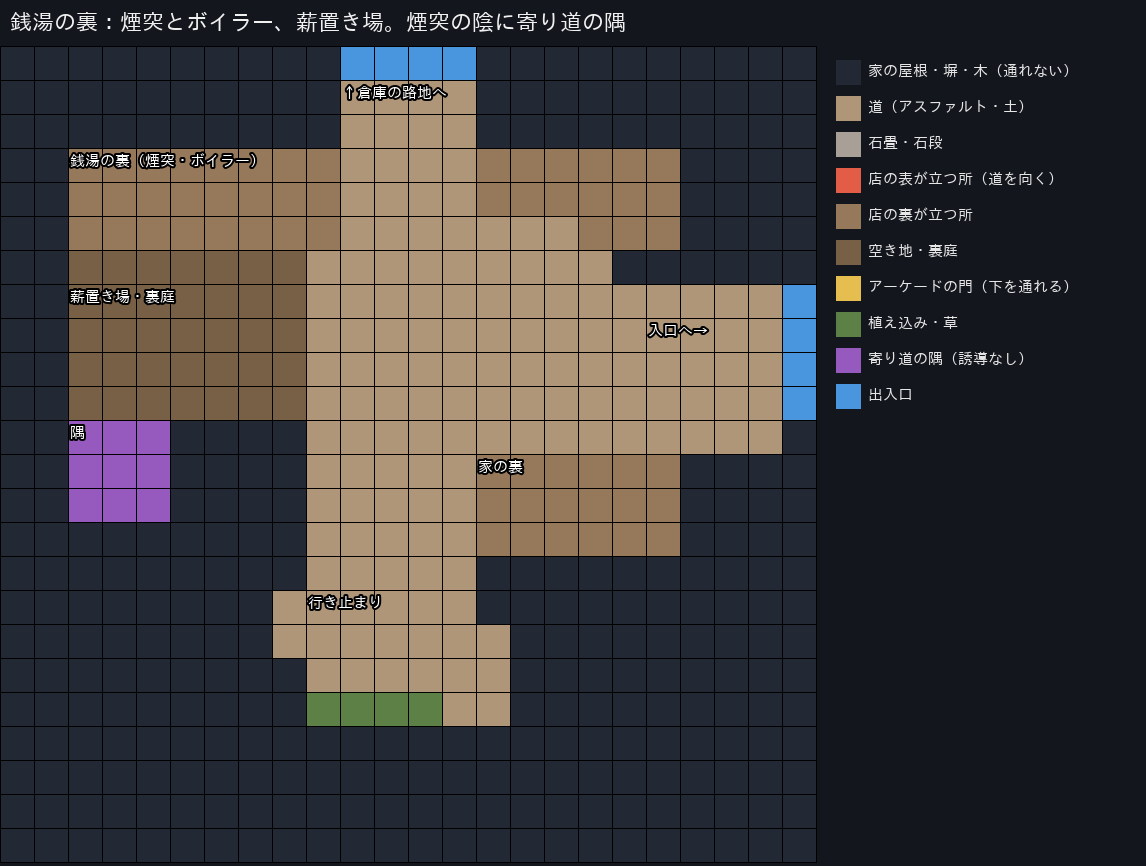
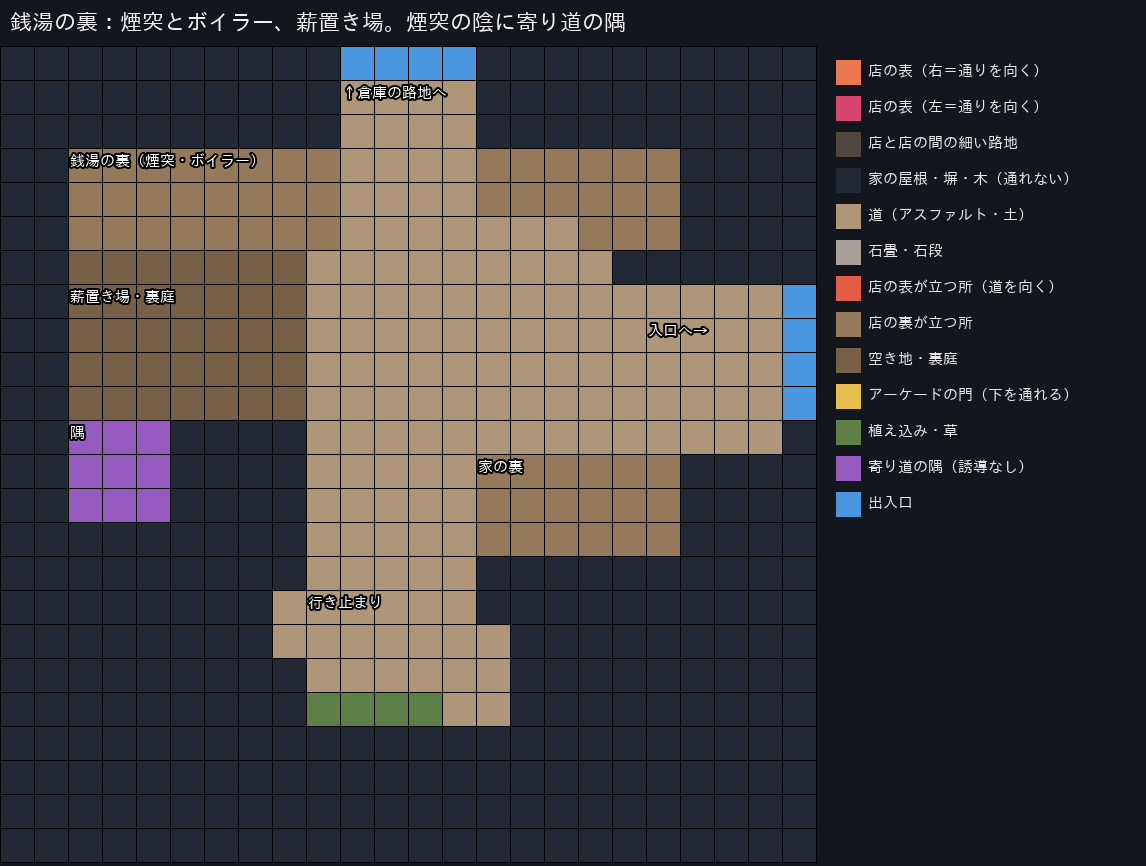
段階306a：入口と中ほどを縦の商店街に描き直した下書き（案）
Claude-Session: https://claude.ai/code/session_0138z9G7k6ksKdyrMYEXSS2D

Changed region(s): [[0.733, 0.0624, 0.9468, 0.5924]]

diff --git a/scripts/a12_sketch.py b/scripts/a12_sketch.py
@@ -5,8 +5,8 @@ from PIL import Image, ImageDraw, ImageFont
 T = 34
 F = ImageFont.truetype('/usr/share/fonts/opentype/ipafont-gothic/ipag.ttf', 15)
 FB = ImageFont.truetype('/usr/share/fonts/opentype/ipafont-gothic/ipag.ttf', 22)
-C = {'#': (34, 40, 52), '.': (176, 150, 120), 's': (168, 160, 150), 'F': (226, 92, 70), 'B': (150, 120, 90), 'x': (74, 150, 222), 'y': (120, 96, 70), 'h': (150, 90, 190), 'g': (230, 190, 80), 'k': (92, 128, 70)}
-LEGEND = [('#', '家の屋根・塀・木（通れない）'), ('.', '道（アスファルト・土）'), ('s', '石畳・石段'), ('F', '店の表が立つ所（道を向く）'), ('B', '店の裏が立つ所'), ('y', '空き地・裏庭'), ('g', 'アーケードの門（下を通れる）'), ('k', '植え込み・草'), ('h', '寄り道の隅（誘導なし）'), ('x', '出入口')]
+C = {'L': (236, 120, 80), 'R': (214, 70, 110), 'a': (80, 70, 60), '#': (34, 40, 52), '.': (176, 150, 120), 's': (168, 160, 150), 'F': (226, 92, 70), 'B': (150, 120, 90), 'x': (74, 150, 222), 'y': (120, 96, 70), 'h': (150, 90, 190), 'g': (230, 190, 80), 'k': (92, 128, 70)}
+LEGEND = [('L', '店の表（右＝通りを向く）'), ('R', '店の表（左＝通りを向く）'), ('a', '店と店の間の細い路地'), ('#', '家の屋根・塀・木（通れない）'), ('.', '道（アスファルト・土）'), ('s', '石畳・石段'), ('F', '店の表が立つ所（道を向く）'), ('B', '店の裏が立つ所'), ('y', '空き地・裏庭'), ('g', 'アーケードの門（下を通れる）'), ('k', '植え込み・草'), ('h', '寄り道の隅（誘導なし）'), ('x', '出入口')]
 
 
 def plan(name, title, rows, labels):
@@ -32,62 +32,62 @@ def plan(name, title, rows, labels):
 
 
 GATE = [
-    '#################xxxx###',
-    '#################....###',
-    '##FFFFFFFFFFFFFFF....###',
-    '##FFFFFFFFFFFFFFF....###',
-    '##FFFFFFFFFFFFFFF....###',
-    '#.....................##',
-    '#.....................##',
-    'x.....................##',
-    'x.....................##',
-    'x.....................##',
-    'x.....................##',
-    '#.....................##',
-    '##BBBBBBB......BBBBBBB##',
-    '##BBBBBBB......BBBBBBB##',
-    '##BBBBBBB......BBBBBBB##',
-    '#########gggggg#########',
-    '#####kkk........kkk#####',
-    '####..............######',
-    '####..............######',
-    '#####............#######',
-    '#######........#########',
-    '#########....###########',
-    '#########xxxx###########',
-    '#########xxxx###########',
+    '#########xxxxxx#########',
+    '####LLLL.......RRRRR####',
+    '####LLLL.......RRRRR####',
+    '####LLLL.......RRRRR####',
+    '####LLLL.......RRRRR####',
+    '####LLLL.......RRRRR####',
+    '####LLLL.......RRRRR####',
+    'xaaaaaaa.......RRRRR####',
+    'xaaaaaaa.......RRRRR####',
+    '####LLLL.......RRRRR####',
+    '####LLLL.......RRRRR####',
+    '####LLLL.......RRRRR####',
+    '####LLLL.......RRRRR####',
+    '####LLLL.......RRRRR####',
+    '####LLLL.......RRRRR####',
+    '####LLLL.......RRRRR####',
+    '####LLLL.......RRRRR####',
+    '#########ggggggg########',
+    '######kk.......kk#######',
+    '#####.............######',
+    '#####.............######',
+    '######...........#######',
+    '########xxxxxx##########',
+    '########xxxxxx##########',
 ]
-plan('gate', '商店街の入口：アーケードの門から入り、横に走る通りへ', GATE,
-     [(3, 3, '八百屋・駄菓子屋（縁台）など：表'), (17, 2, '↑中ほどへ'), (1, 8, '←銭湯の裏へ'), (3, 13, '店の裏'), (16, 13, '店の裏'), (9, 15, 'アーケードの門'), (5, 18, '入口の前の小さな広場'), (9, 22, '↓外')])
+plan('gate', '商店街の入口：アーケードの門から、まっすぐ上へ続く商店街', GATE,
+     [(4, 2, '八百屋'), (4, 5, '魚屋'), (4, 10, '駄菓子屋'), (4, 13, '縁台'), (16, 2, '米屋'), (16, 6, '本屋'), (16, 11, '金物屋'), (1, 7, '←路地・銭湯の裏へ'), (9, 0, '↑中ほどへ'), (9, 17, 'アーケードの門'), (6, 19, '入口の前の小さな広場'), (8, 22, '↓外')])
 
 MIDDLE = [
     '##########xxxx##########',
     '##########ssss##########',
-    '##########ssss##########',
-    '##FFFFFFF#ssss#FFFFFFF##',
-    '##FFFFFFF#ssss#FFFFFFF##',
-    '##FFFFFFF#....#FFFFFFF##',
-    '#......................#',
-    'x......................x',
-    'x......................x',
-    'x......................x',
-    'x......................x',
-    '#......................#',
-    '##BBBBBBBBBBBBB....BBBB#',
-    '##BBBBBBBBBBBBB....BBBB#',
-    '##BBBBBBBBBBBBB....BBBB#',
-    '##yyyyy########....#####',
-    '##yyyyy.###kkk.....#####',
-    '##yyyyy..........#######',
-    '###########......#######',
-    '#############....#######',
-    '#################....###',
-    '#################....###',
-    '#################xxxx###',
-    '#################xxxx###',
+    '#########ssssss#########',
+    '####LLLL..ssss..RRRR####',
+    '####LLLL........RRRR####',
+    '####LLLL........RRRR####',
+    '####LLLL........RRRR####',
+    '####LLLL........RRRR####',
+    '####LLLL........RRRR####',
+    'xaaaaaaa........aaaaaaax',
+    'xaaaaaaa........aaaaaaax',
+    '####LLLL........RRRR####',
+    '####LLLL........RRRR####',
+    '####LLLL........RRRR####',
+    '####LLLL........RRRR####',
+    '####LLLL........RRRR####',
+    '####LLLL........RRRR####',
+    '####LLLL........RRRR####',
+    '####LLLL........RRRR####',
+    '####LLLL........RRRR####',
+    '####LLLL........RRRR####',
+    '####LLLL........RRRR####',
+    '#########xxxxxx#########',
+    '#########xxxxxx#########',
 ]
-plan('middle', '商店街の中ほど：時計屋・電器屋・たばこ屋。奥に坂の上り口', MIDDLE,
-     [(2, 3, '時計屋・電器屋：表'), (15, 3, 'たばこ屋など：表'), (10, 1, '↑坂の上へ（石段）'), (0, 7, '←倉庫の路地'), (20, 7, '横丁→'), (2, 15, '自転車置き場'), (17, 21, '↓入口へ')])
+plan('middle', '商店街の中ほど：まっすぐな通りの両側に店。突き当たりは坂の上への石段', MIDDLE,
+     [(4, 4, '時計屋'), (4, 13, '電器屋'), (4, 17, 'たばこ屋'), (16, 5, '銭湯の表'), (16, 14, '布団屋'), (0, 9, '←倉庫の路地'), (17, 9, '横丁→'), (10, 1, '↑坂の上へ'), (9, 22, '↓入口へ')])
 
 BATH = [
     '##########xxxx##########',

diff --git a/docs/milestones/M3_explore_feel.md b/docs/milestones/M3_explore_feel.md
@@ -479,6 +479,7 @@ E5〜E10 の見立て（2026-11-20）：一番おすすめは **E5**（写しの
 
 | 段階 | 中身 | 状態 |
 | --- | --- | --- |
+| 306a. 入口と中ほどを縦の商店街に（案） | 開発者（2026-11-27）：部屋の形が商店街っぽくない。→ 入口と中ほどを、まっすぐ縦に通る1本の通りの両側に店が並ぶ形に描き直した（店の奥行き4マス、店の間の細い路地から裏通り・横丁へ。入口はアーケードの門から上へ、中ほどの突き当たりは坂の上への石段）。店は横向き（左向き・右向き）になる。開発者の返事を待って、入口・中ほどの地面の絵と、店の部品の箱（左右の組）の頼む文を書き直す | 返事待ち |
 | 306. 地面の絵と部品の箱の頼む文 | 6部屋の作りの下書き（`scripts/a12_sketch.py` → `docs/sketches/a12_v1/<部屋>_plan.png`）と、地面の絵6枚・昭和の商店街の部品の箱3枚（店の表9軒・店の裏と横向きと端と角・小物12個）の頼む文（`docs/ART_QUEUE.md` の AR.）。地面の絵には地面と遠くの屋根・木だけ、店や看板は部品 | 絵を待つ |
 
 **この後の段取り（案。下書き時点）**：306 地面の絵5枚と、昭和の商店街の部品の箱（店の表・裏・横向き、端・角、電柱・看板など）の頼む文 → 307 組み立て → 308 仕掛け（尾行・チェーン）と晩の置き方 → 309 写しの人・思い出の一枚
